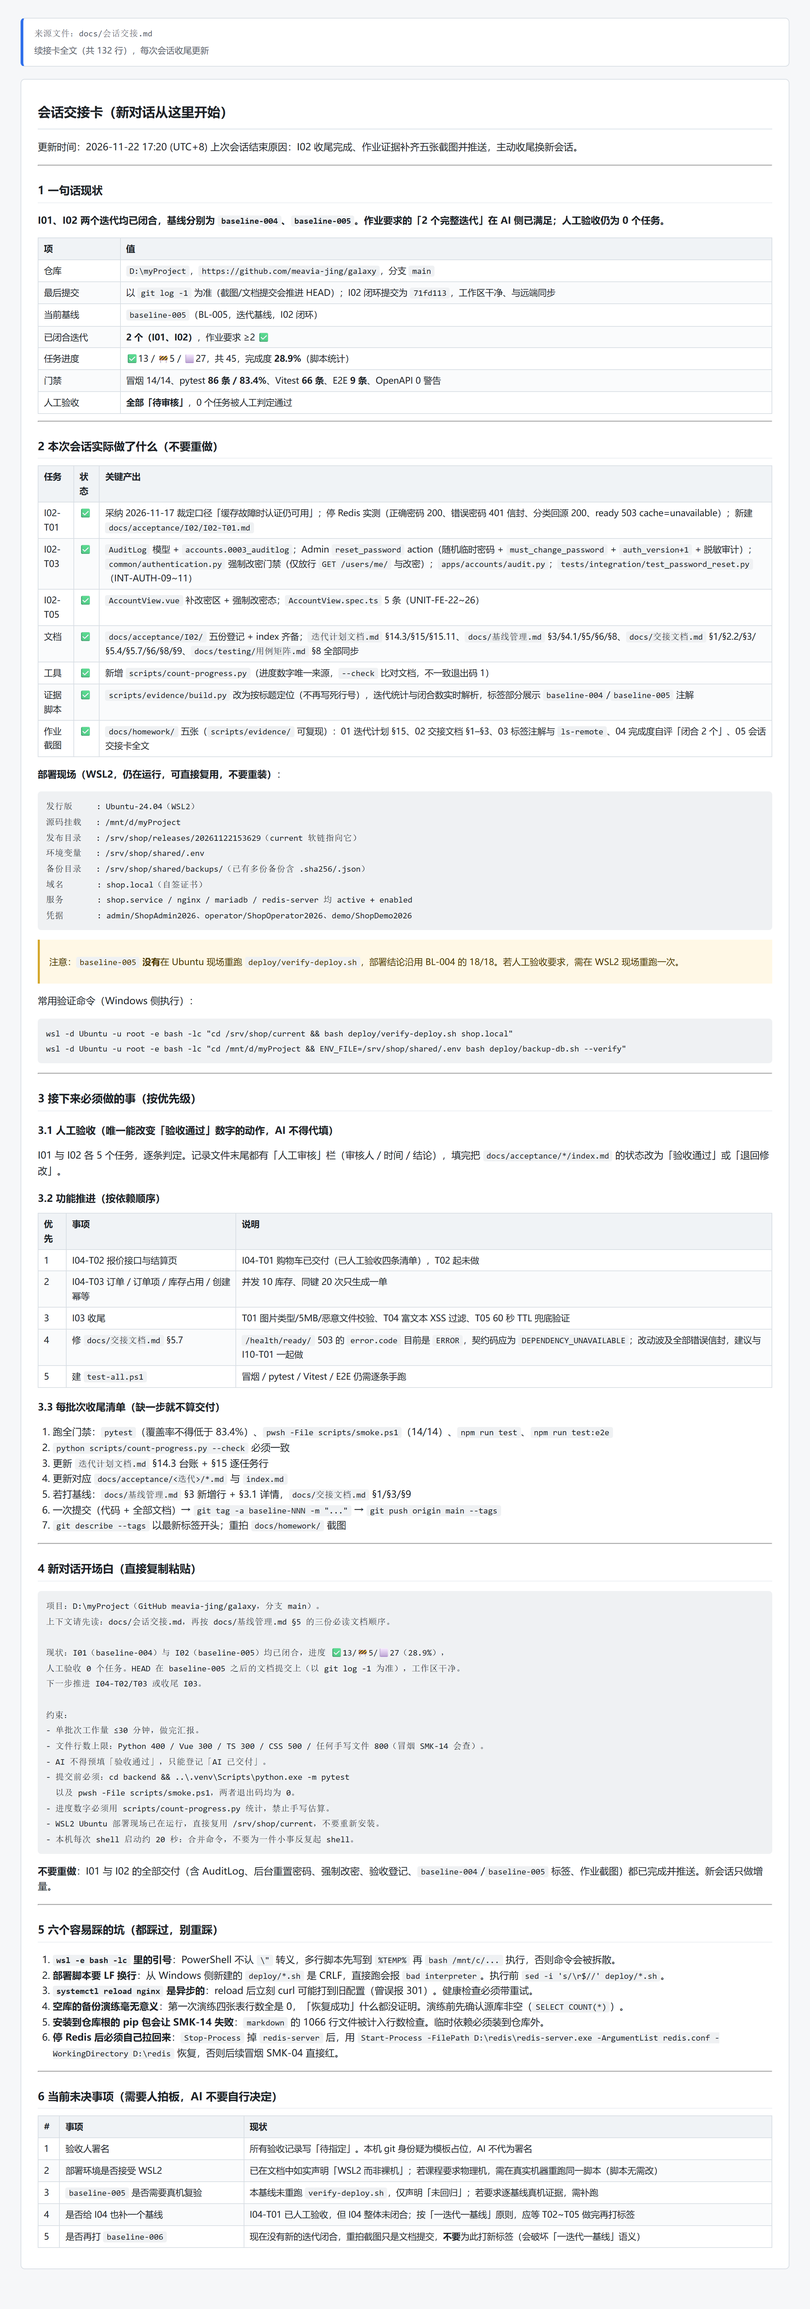
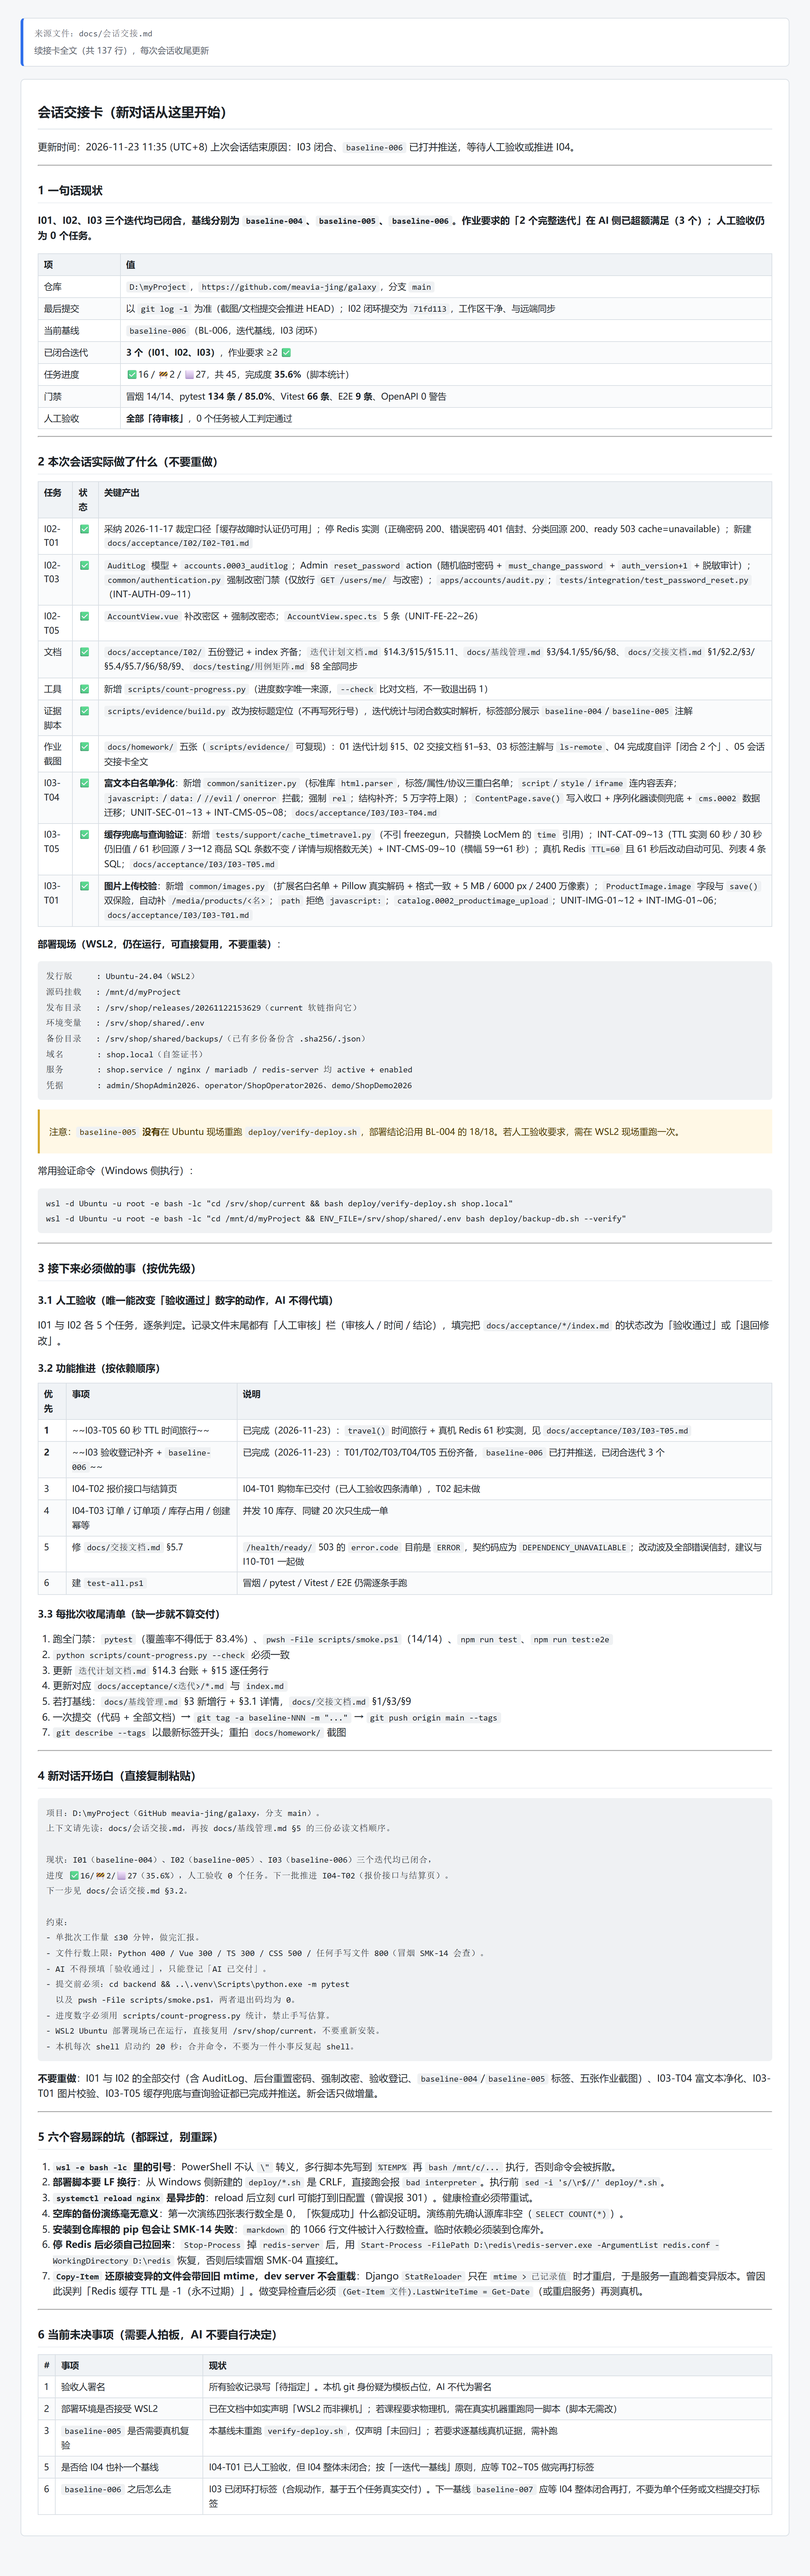
docs(homework): 证据图更新至 baseline-006 并把 04 表格补上 BL-006
- 重拍 01~05 五张作业证据图:迭代计划/交接文档/基线标签/完成度自评/会话交接卡
  均反映 I03 闭环、已闭合 3 个迭代与 baseline-006 标签
- scripts/evidence/build.py:04 页基线表补 baseline-006 行,并把
  「已满足两个完整迭代」改为「已闭合 3 个,满足并超过要求」,避免证据文本落后于实际
- 后续作业不再生成截图,本批为最后一次重拍

diff --git a/scripts/evidence/build.py b/scripts/evidence/build.py
@@ -287,9 +287,11 @@ def main() -> None:
         "| `baseline-002` | I01-T03/T04、I02-T01/T04、I03-T05 等混合 | 跨迭代补丁基线 |\n"
         "| `baseline-003` | 测试补齐 + 价格排序修复 + 备份校验 | 跨迭代补丁基线 |\n"
         "| `baseline-004` | I01-T03/T04/T05 全部转 ✅ | **迭代基线（I01 闭环）** |\n"
-        "| `baseline-005` | I02-T01/T03/T05 全部转 ✅ | **迭代基线（I02 闭环）** |\n\n"
+        "| `baseline-005` | I02-T01/T03/T05 全部转 ✅ | **迭代基线（I02 闭环）** |\n"
+        "| `baseline-006` | I03-T01/T04/T05 全部转 ✅ | **迭代基线（I03 闭环）** |\n\n"
         "> BL-001~003 横跨 I01–I03，无法回答「I01 在第几个标签闭合」；"
-        "BL-004 与 BL-005 才是一迭代一标签的形态，已满足「两个完整迭代」。\n"
+        "BL-004 / BL-005 / BL-006 才是一迭代一标签的形态，已闭合 **3 个**完整迭代，"
+        "满足并超过作业要求的「两个完整迭代」。\n"
         "> 但基线只证明 AI 侧交付与门禁齐全，**人工验收仍为 0 个任务**。\n"
     )
     body += "</div>"
